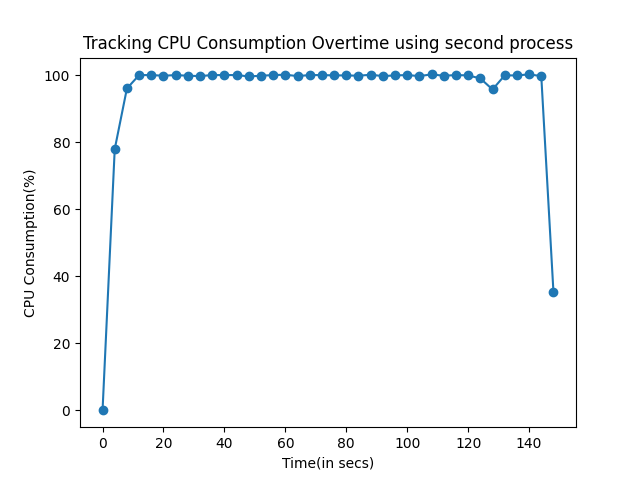
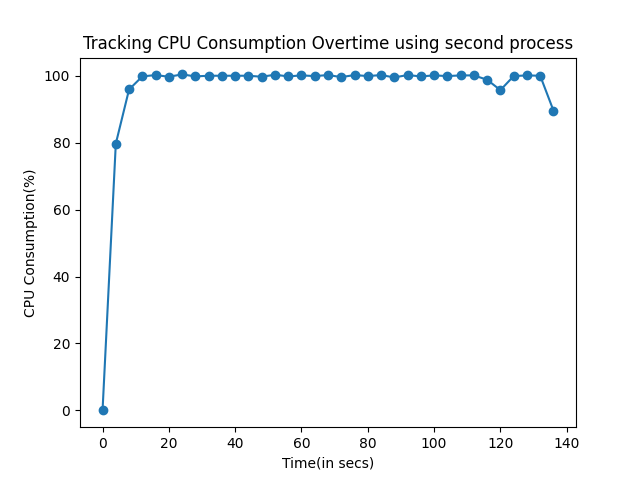
new changes

diff --git a/realtime_monitoring.py b/realtime_monitoring.py
@@ -14,8 +14,13 @@ def get_processes_info():
             pid = process.pid
             name = process.name()
             cpu_usage = process.cpu_percent()
+            try:
+            # get the memory usage in bytes
+                memory_usage = process.memory_full_info().uss
+            except psutil.AccessDenied:
+                memory_usage = 0
             processes.append({
-                'pid': pid, 'cpu_usage': cpu_usage, 'name': name,
+                'pid': pid, 'cpu_usage': cpu_usage, 'name': name, 'memory_usage': memory_usage,
             })
 
     return processes
@@ -31,9 +36,10 @@ def construct_dataframe(processes, columns):
 
 
 if __name__ == "__main__":
-    columns = "pid,cpu_usage,name"
+    columns = "pid,name,cpu_usage,memory_usage"
     cnt = 0
     cpu_use = []
+    mem_use = []
     try:
         while 1:
             # get all process info
@@ -61,21 +67,28 @@ if __name__ == "__main__":
                 #except:
                 #    print("main not started")
                 cpu_use_t = s1.iloc[0]['cpu_usage']
+                mem_use_t = s1.iloc[0]['memory_usage']
                 cnt = cnt+1
-                print("CPU Usage: ",cpu_use_t)
+                #print("CPU Usage: ",cpu_use_t)
+                mem_use.append(mem_use_t)
                 cpu_use.append(cpu_use_t)
             time.sleep(4)
     except KeyboardInterrupt:
         len_cnt = len(cpu_use)
         len_cnt = len_cnt*4
         x_time = list(range(0, len_cnt, 4))
-        print(x_time)
-        print(cpu_use)
+        print("Timestamps: ",x_time)
+        print("CPU Consumption(%): ",cpu_use)
+        print("Memory Usages: ",mem_use)
         plt.plot(x_time, cpu_use, '-o')
         plt.xlabel('Time(in secs)')
         plt.ylabel('CPU Consumption(%)')
         plt.title('Tracking CPU Consumption Overtime using second process')
         plt.savefig('cpu_consumption_overtime.png')
-
+        plt.plot(x_time, mem_use, '-o')
+        plt.xlabel('Time(in secs)')
+        plt.ylabel('Memory Consumption(bytes)')
+        plt.title('Tracking Memory Consumption Overtime using second process')
+        plt.savefig('memory_consumption_with_secondPRO.png')
 
 
